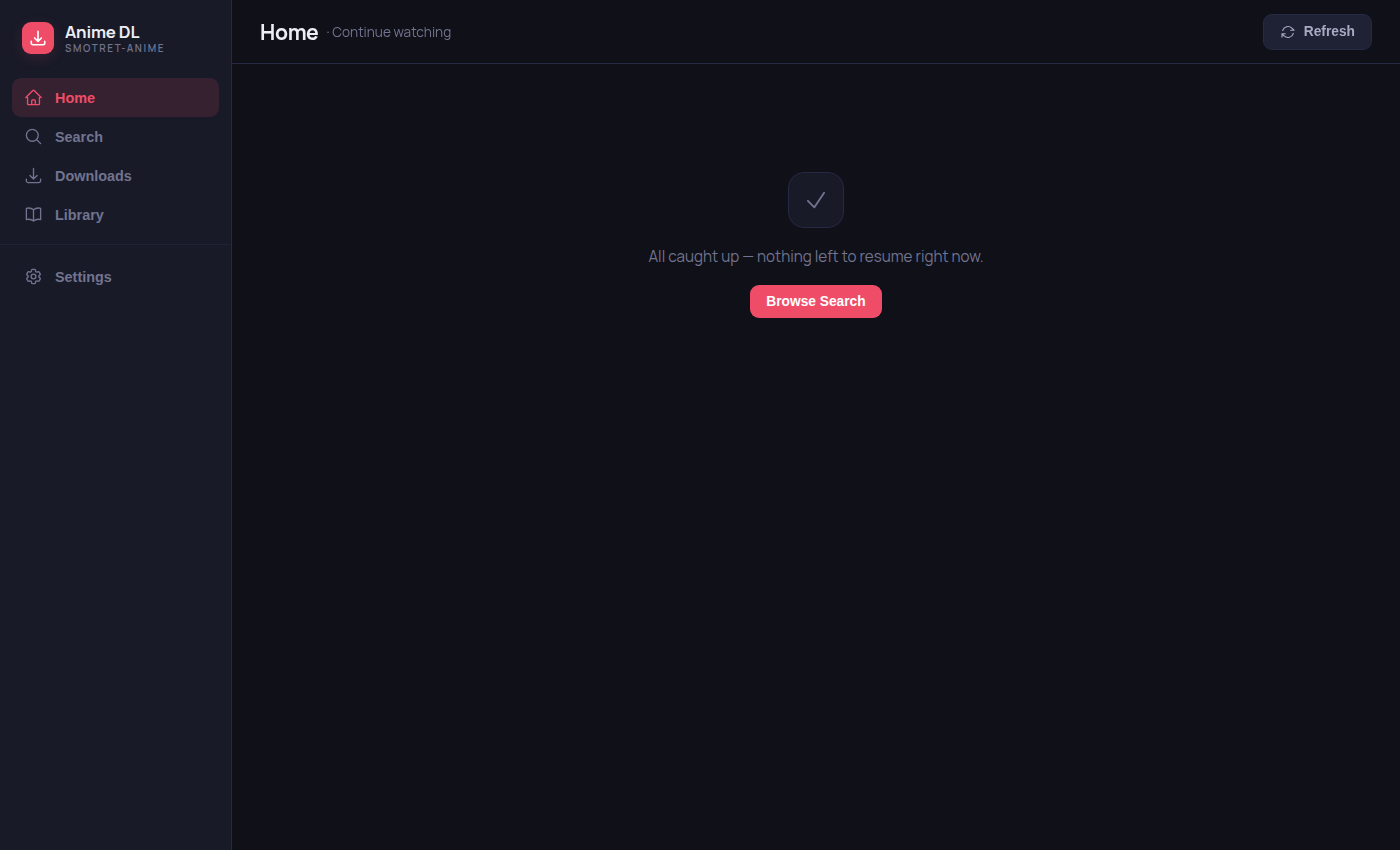
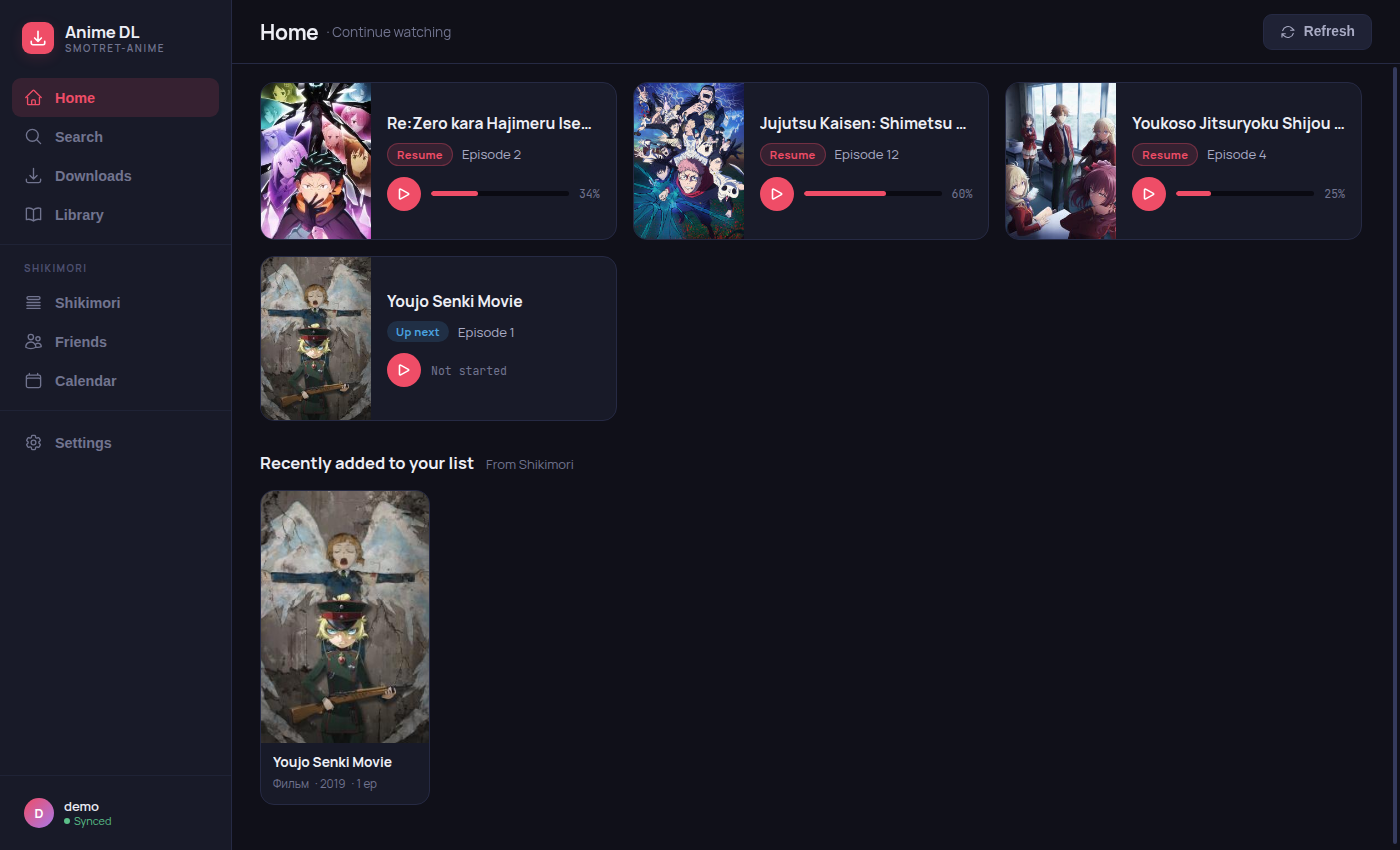
fix(screenshots): recapture README shots — populated Home, clean subtitles, menu UI
The Home capture showed the empty "All caught up" state with a logged-out
sidebar; recaptured from a seeded demo profile so it shows the
continue-watching dashboard (Resume/Up next cards with posters and
progress), the Shikimori nav group + synced user chip, and a "Recently
added" section. The player shots had the seek bar sitting exactly on the
subtitle baseline, which read as clipped text: subtitle showcases are now
captured with controls auto-hidden, the hero is taken at a dialogue-free
moment, and player-scene.jpg is captured mid-playback with the translation
menu open (EN SUB group, per-item quality labels) so the caption about
mid-playback switching matches the image. Also corrects the README caption
(libass, not JASSUB), rebases onto main, and adds the missing version bump
(4.2.1 -> 4.2.2).

diff --git a/README.md b/README.md
@@ -86,7 +86,7 @@ Anime DL is more than a downloader — it has a built-in player with MKV streami
   <tr>
     <td width="50%">
       <img src="resources/screenshots/player-subtitles.jpg" alt="Built-in player rendering native subtitles" /><br />
-      <sub><b>Native ASS/SSA subtitles</b> — rendered with libass/JASSUB, full styling and positioning preserved.</sub>
+      <sub><b>Native ASS/SSA subtitles</b> — rendered with libass, full styling and positioning preserved.</sub>
     </td>
     <td width="50%">
       <img src="resources/screenshots/player-scene.jpg" alt="Instant MKV streaming in the built-in player" /><br />
